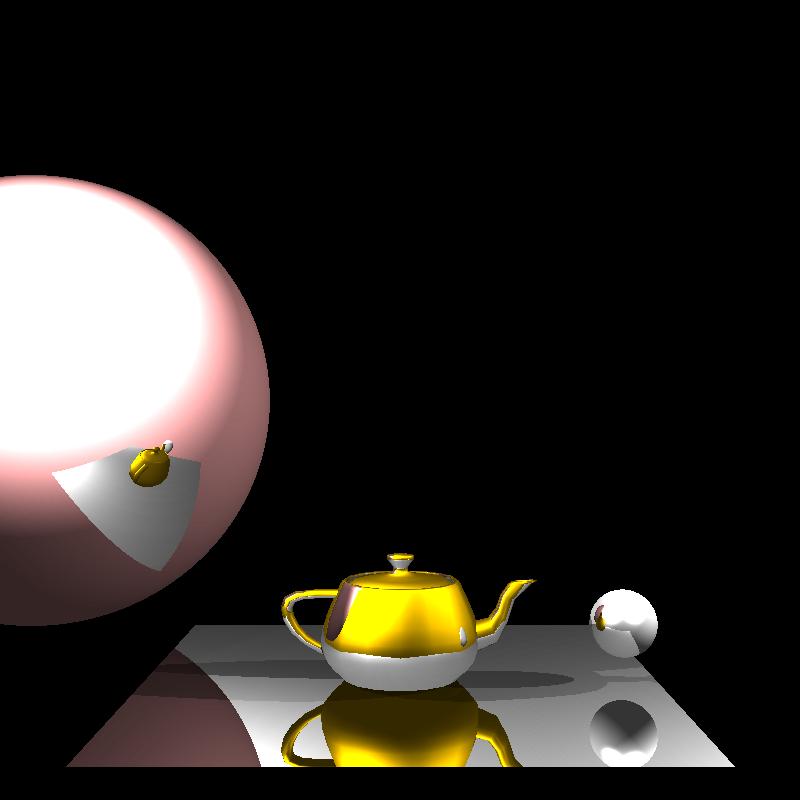
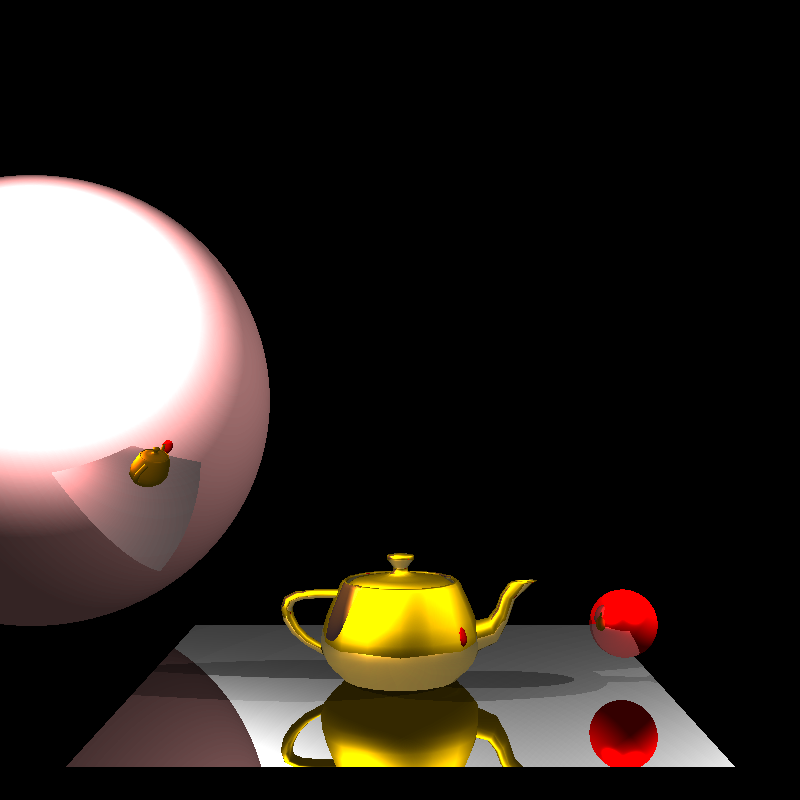
lightning-colors-fixed

diff --git a/src/aemn/raytracer/Raytracer.java b/src/aemn/raytracer/Raytracer.java
@@ -13,6 +13,7 @@ import aemn.material.LambertMat;
 import aemn.material.MaterialShader;
 import aemn.material.ReflectiveMat;
 import aemn.material.RefractiveMat;
+import aemn.raytracer.lights.DirectionalLight;
 import aemn.raytracer.lights.Light;
 import aemn.raytracer.lights.PointLight;
 import aemn.raytracer.objects.Camera;
@@ -35,7 +36,7 @@ public class Raytracer {
 		float version = 1.1f;
 		System.out.println("AEMN -> Raytracer v" + version);
 		System.out.println(new Date());
-		 
+
 		/** Scene 01 **/
 		Scene scene01 = new Scene();
 		scene01.setCamera(new Camera(new Vector3D(0, 0, -8), 160, 160, 800, 800, 0f, 50f));
@@ -50,71 +51,74 @@ public class Raytracer {
 				new ReflectiveMat(Color.WHITE, 0, 5, 0.1f)));
 		// Scene Objects
 		scene01.addObject(new Sphere(new Vector3D(-4.0, 0.0, 4), 2.5, new ReflectiveMat(Color.PINK, 0, 1000, 0.5f)));
-		scene01.addObject(new Sphere(new Vector3D(2.0, -2.0, 1.5), 0.3, new ReflectiveMat(Color.WHITE, 0, 50, 0.5f)));
+		scene01.addObject(new Sphere(new Vector3D(2.0, -2.0, 1.5), 0.3, new ReflectiveMat(Color.RED, 0, 50, 0.5f)));
 		/****************** SCENE FINISH ****************/
 
-		/**************** Scene 02****************/
+		/**************** Scene 02 ****************/
 		// Scene Configuration
 
 		Scene scene02 = new Scene();
 		scene02.setCamera(new Camera(new Vector3D(0, 0, -8), 160, 160, 800, 800, 0f, 50f));
 
 		// Scene OBJs
-		scene02.addObject(OBJReader.GetPolygon("panel.obj", new Vector3D(0, -2.5, 1),
-				new LambertMat(Color.WHITE, 0, 5, 0.1f)));
-		scene02.addObject(OBJReader.GetPolygon("panel.obj", new Vector3D(0, -2.5, 5.4),
-				new LambertMat(Color.WHITE, 0, 5, 0.1f)));
-		
+		scene02.addObject(
+				OBJReader.GetPolygon("panel.obj", new Vector3D(0, -2.5, 1), new LambertMat(Color.WHITE, 0, 5, 0.1f)));
+		scene02.addObject(
+				OBJReader.GetPolygon("panel.obj", new Vector3D(0, -2.5, 5.4), new LambertMat(Color.WHITE, 0, 5, 0.1f)));
+
 		/** First Showroom **/
 		scene02.addLight(new PointLight(new Vector3D(-1.5, 1, 0), new LambertMat(Color.WHITE, 200, 0, 0)));
 		scene02.addObject(OBJReader.GetPolygon("Cube.obj", new Vector3D(-1.5, -2.4, 0),
 				new ReflectiveMat(Color.YELLOW, 0.0, 5.0, 0.1f)));
 		scene02.addObject(OBJReader.GetPolygon("smallTeapot.obj", new Vector3D(-1.5, -1.4, 0),
 				new RefractiveMat(Color.WHITE, 0.0, 10.0, 0.05f, 1.5)));
-		
+
 		/** Second Showroom **/
 		scene02.addLight(new PointLight(new Vector3D(1.5, 1.0, 0.0), new LambertMat(Color.WHITE, 200, 0, 0)));
 		scene02.addObject(OBJReader.GetPolygon("Cube.obj", new Vector3D(1.5, -2.4, 0),
 				new RefractiveMat(Color.WHITE, 0, 5.0, 0.1f, 1.5)));
-		scene02.addObject(new Sphere(new Vector3D(1.5, -0.8, 0), 0.6, new RefractiveMat(Color.WHITE, 0, 150, 0.05f, 1.5)));
-		
+		scene02.addObject(
+				new Sphere(new Vector3D(1.5, -0.8, 0), 0.6, new RefractiveMat(Color.WHITE, 0, 150, 0.05f, 1.5)));
+
 		/** Third Showroom **/
 		scene02.addLight(new PointLight(new Vector3D(1.5, 1.0, 5), new LambertMat(Color.WHITE, 200, 0, 0)));
 		scene02.addObject(OBJReader.GetPolygon("Cube.obj", new Vector3D(1.5, -2.4, 5),
 				new LambertMat(Color.ORANGE, 0, 5.0, 0.1f)));
-		scene02.addObject(OBJReader.GetPolygon("ring.obj", new Vector3D(1.5, -1.3, 5),
-				new LambertMat(Color.BLUE, 0, 5.0, 0.1f)));
-		
+		scene02.addObject(
+				OBJReader.GetPolygon("ring.obj", new Vector3D(1.5, -1.3, 5), new LambertMat(Color.BLUE, 0, 5.0, 0.1f)));
+
 		/** Fourth Showroom **/
 		scene02.addLight(new PointLight(new Vector3D(-1.5, 1, 5), new LambertMat(Color.WHITE, 200, 0, 0)));
 		scene02.addObject(OBJReader.GetPolygon("Cube.obj", new Vector3D(-1.5, -2.4, 5),
 				new LambertMat(Color.ORANGE, 0.0, 5.0, 0.1f)));
-		scene02.addObject(OBJReader.GetPolygon("plant.obj", new Vector3D(-1.5, -1.45 , 5),
+		scene02.addObject(OBJReader.GetPolygon("plant.obj", new Vector3D(-1.5, -1.45, 5),
 				new ReflectiveMat(Color.GREEN, 0.0, 5.0, 0.1f)));
-		
+
 		/****************** SCENE FINISH ****************/
-		
+
 		/**************** Scene 03 ****************/
 		// Scene Configuration
 		Scene scene03 = new Scene();
 		scene03.setCamera(new Camera(new Vector3D(0, 0, -8), 160, 160, 800, 800, 0f, 50f));
 		scene03.addLight(new PointLight(new Vector3D(0, 1, 0), new LambertMat(Color.WHITE, 300, 0, 0)));
 		scene03.addLight(new PointLight(new Vector3D(0, 1, 5), new LambertMat(Color.WHITE, 300, 0, 0)));
-		
+
 		// Scene OBJs
-		scene03.addObject(OBJReader.GetPolygon("panel.obj", new Vector3D(0, -2.5, 1),
-				new LambertMat(Color.WHITE, 0, 5, 0.1f)));
-		scene03.addObject(OBJReader.GetPolygon("panel.obj", new Vector3D(0, -2.5, 5.5),
-				new LambertMat(Color.WHITE, 0, 5, 0.1f)));
-		
+		scene03.addObject(
+				OBJReader.GetPolygon("panel.obj", new Vector3D(0, -2.5, 1), new LambertMat(Color.WHITE, 0, 5, 0.1f)));
+		scene03.addObject(
+				OBJReader.GetPolygon("panel.obj", new Vector3D(0, -2.5, 5.5), new LambertMat(Color.WHITE, 0, 5, 0.1f)));
+
 		scene03.addObject(OBJReader.GetPolygon("Cube.obj", new Vector3D(0, -2.4, 1),
 				new RefractiveMat(Color.WHITE, 0, 50, 0.1f, 1.5)));
-		/*scene03.addObject(OBJReader.GetPolygon("bunny.obj", new Vector3D(0, -1.6, 1),
-				new LambertMat(Color.PINK, 0, 150, 0.1f)));*/
+		/*
+		 * scene03.addObject(OBJReader.GetPolygon("bunny.obj", new Vector3D(0, -1.6, 1),
+		 * new LambertMat(Color.PINK, 0, 150, 0.1f)));
+		 */
 		scene03.addObject(new Sphere(new Vector3D(-0.5, -2, 3), 0.6, new ReflectiveMat(Color.RED, 0, 15, 0.1f)));
 		scene03.addObject(new Sphere(new Vector3D(-2, -2, 2), 0.6, new ReflectiveMat(Color.BLUE, 0, 15, 0.1f)));
 		scene03.addObject(new Sphere(new Vector3D(-1.5, -2, 4), 0.6, new ReflectiveMat(Color.YELLOW, 0, 20, 0.05f)));
-		
+
 		/****************** SCENE FINISH ****************/
 
 		BufferedImage image = raytrace(scene01);
@@ -204,93 +208,42 @@ public class Raytracer {
 						/***
 						 * Reflection and Refraction
 						 */
-						if (closestIntersection.getObject().getShader() instanceof ReflectiveMat) {
+						if (closestIntersection.getObject().getShader() instanceof ReflectiveMat) { // REFLECTION START
 							Intersection resultIntersection = reflection(closestIntersection, light, objects,
 									mainCamera);
-
+							Light templight = null;
+							
 							if (resultIntersection != null) {
 								
-								/*if (resultIntersection.getObject().getShader() instanceof ReflectiveMat) {
-									resultIntersection = reflection(resultIntersection, light, objects, mainCamera);
-									if (resultIntersection != null) {
-										newRGB = MaterialShader.calculateNewColors(light,
-												resultIntersection, mainCamera, ambient, specular, smooth);
-									} 
-									
-								} else if (resultIntersection.getObject().getShader() instanceof RefractiveMat) {
-									resultIntersection = refraction(resultIntersection, light, objects, mainCamera);
-									if (resultIntersection != null) {
-										newRGB = MaterialShader.calculateNewColors(light,
-												resultIntersection, mainCamera, ambient, specular, smooth);
-									} 
-									
-								} else if (resultIntersection.getObject().getShader() instanceof LambertMat) {
-									if (resultIntersection != null) {
-										newRGB = MaterialShader.calculateNewColors(light,
-												resultIntersection, mainCamera, ambient, specular, smooth);
-									} 
-								}
-								*/
-								
-								if (resultIntersection.getObject().getShader() instanceof RefractiveMat) {
-
-									resultIntersection = refraction(resultIntersection, light, objects,
-											mainCamera);
-
-									if (resultIntersection != null) {
-
-										if (resultIntersection.getObject().getShader() instanceof ReflectiveMat) {
-											
-											resultIntersection = reflection(resultIntersection, light, objects,
-													mainCamera);
-											if (resultIntersection != null) {
-												newRGB = MaterialShader.calculateNewColors(light,
-														resultIntersection, mainCamera, ambient, specular, smooth);
-											} 
-											
-										} else {
-											newRGB = MaterialShader.calculateNewColors(light, resultIntersection,
-													mainCamera, ambient, specular, smooth);
-										}
-									}
-									
-								
-								} else {
-									newRGB = MaterialShader.calculateNewColors(light, resultIntersection,
-											mainCamera, ambient, specular, smooth);
+								if(light instanceof PointLight) {
+									templight = new PointLight(light.getPosition(), new LambertMat(closestIntersection.getObject().getShader().getColor(), light.getShader().getIntensity(), 0, 0));
+								} else if(light instanceof DirectionalLight) {
+									templight = new DirectionalLight(light.getPosition(), ((DirectionalLight) light).getDirection(), new LambertMat(closestIntersection.getObject().getShader().getColor(), light.getShader().getIntensity(), 0, 0));
 								}
 								
-								//Color combination
-								//pixelColor = closestIntersection.getObject().getShader().getColor();
+								newRGB = MaterialShader.calculateNewColors(templight, resultIntersection, mainCamera,
+										ambient, specular, smooth);
 							}
+
 							Color newCol = new Color(clamp(newRGB[0], 0, 1), clamp(newRGB[1], 0, 1),
 									clamp(newRGB[2], 0, 1));
 							pixelColor = addColor(pixelColor, newCol);
 
-						} else if (closestIntersection.getObject().getShader() instanceof RefractiveMat) {
+						} else if (closestIntersection.getObject().getShader() instanceof RefractiveMat) { //REFRACTION START
 							Intersection resultIntersection = refraction(closestIntersection, light, objects,
 									mainCamera);
-							if (resultIntersection != null) {
-								if (resultIntersection.getObject().getShader() instanceof ReflectiveMat) {
-									resultIntersection = reflection(resultIntersection, light, objects, mainCamera);
-									if (resultIntersection != null) {
-										newRGB = MaterialShader.calculateNewColors(light,
-												resultIntersection, mainCamera, ambient, specular, smooth);
-									} 
-									
-								} else if (resultIntersection.getObject().getShader() instanceof RefractiveMat) {
-									resultIntersection = refraction(resultIntersection, light, objects, mainCamera);
-									if (resultIntersection != null) {
-										newRGB = MaterialShader.calculateNewColors(light,
-												resultIntersection, mainCamera, ambient, specular, smooth);
-									} 
-									
-								} else if (resultIntersection.getObject().getShader() instanceof LambertMat) {
-									if (resultIntersection != null) {
-										newRGB = MaterialShader.calculateNewColors(light,
-												resultIntersection, mainCamera, ambient, specular, smooth);
-									} 
+							Light templight = null;
+							
+							if(resultIntersection != null) {
+								
+								if(light instanceof PointLight) {
+									templight = new PointLight(light.getPosition(), new LambertMat(closestIntersection.getObject().getShader().getColor(), light.getShader().getIntensity(), 0, 0));
+								} else if(light instanceof DirectionalLight) {
+									templight = new DirectionalLight(light.getPosition(), ((DirectionalLight) light).getDirection(), new LambertMat(closestIntersection.getObject().getShader().getColor(), light.getShader().getIntensity(), 0, 0));
 								}
+								
+								newRGB = MaterialShader.calculateNewColors(templight, resultIntersection, mainCamera,
+										ambient, specular, smooth);
 							}
 							
 							Color newCol = new Color(clamp(newRGB[0], 0, 1), clamp(newRGB[1], 0, 1),
@@ -365,7 +318,7 @@ public class Raytracer {
 			double b = 1.5;
 			Vector3D bias = Vector3D.scalarMultiplication(N, b);
 			double fresnel = Math.pow((IndexOfRefraction - 1), 2) / Math.pow((IndexOfRefraction + 1), 2);
-			if(fresnel > 0) {
+			if (fresnel > 0) {
 				intersectionNewPos = Vector3D.add(closestIntersection.getPosition(), bias);
 			} else {
 				intersectionNewPos = Vector3D.substract(closestIntersection.getPosition(), bias);
@@ -373,9 +326,9 @@ public class Raytracer {
 		} else {
 			intersectionNewPos = closestIntersection.getPosition();
 		}
-		
+
 		Vector3D I = Vector3D.substract(intersectionNewPos, mainCamera.getPosition());
-		
+
 		double IdotN = Vector3D.dotProduct(I, N);
 		Vector3D T = null;
 
@@ -405,9 +358,7 @@ public class Raytracer {
 		}
 
 		Vector3D refractedVector = T;
-		
-		
-		
+
 		Ray refractedRay = new Ray(intersectionNewPos, refractedVector);
 		Intersection refractedIntersection = raycast(refractedRay, objects, closestIntersection.getObject(), null);
 
